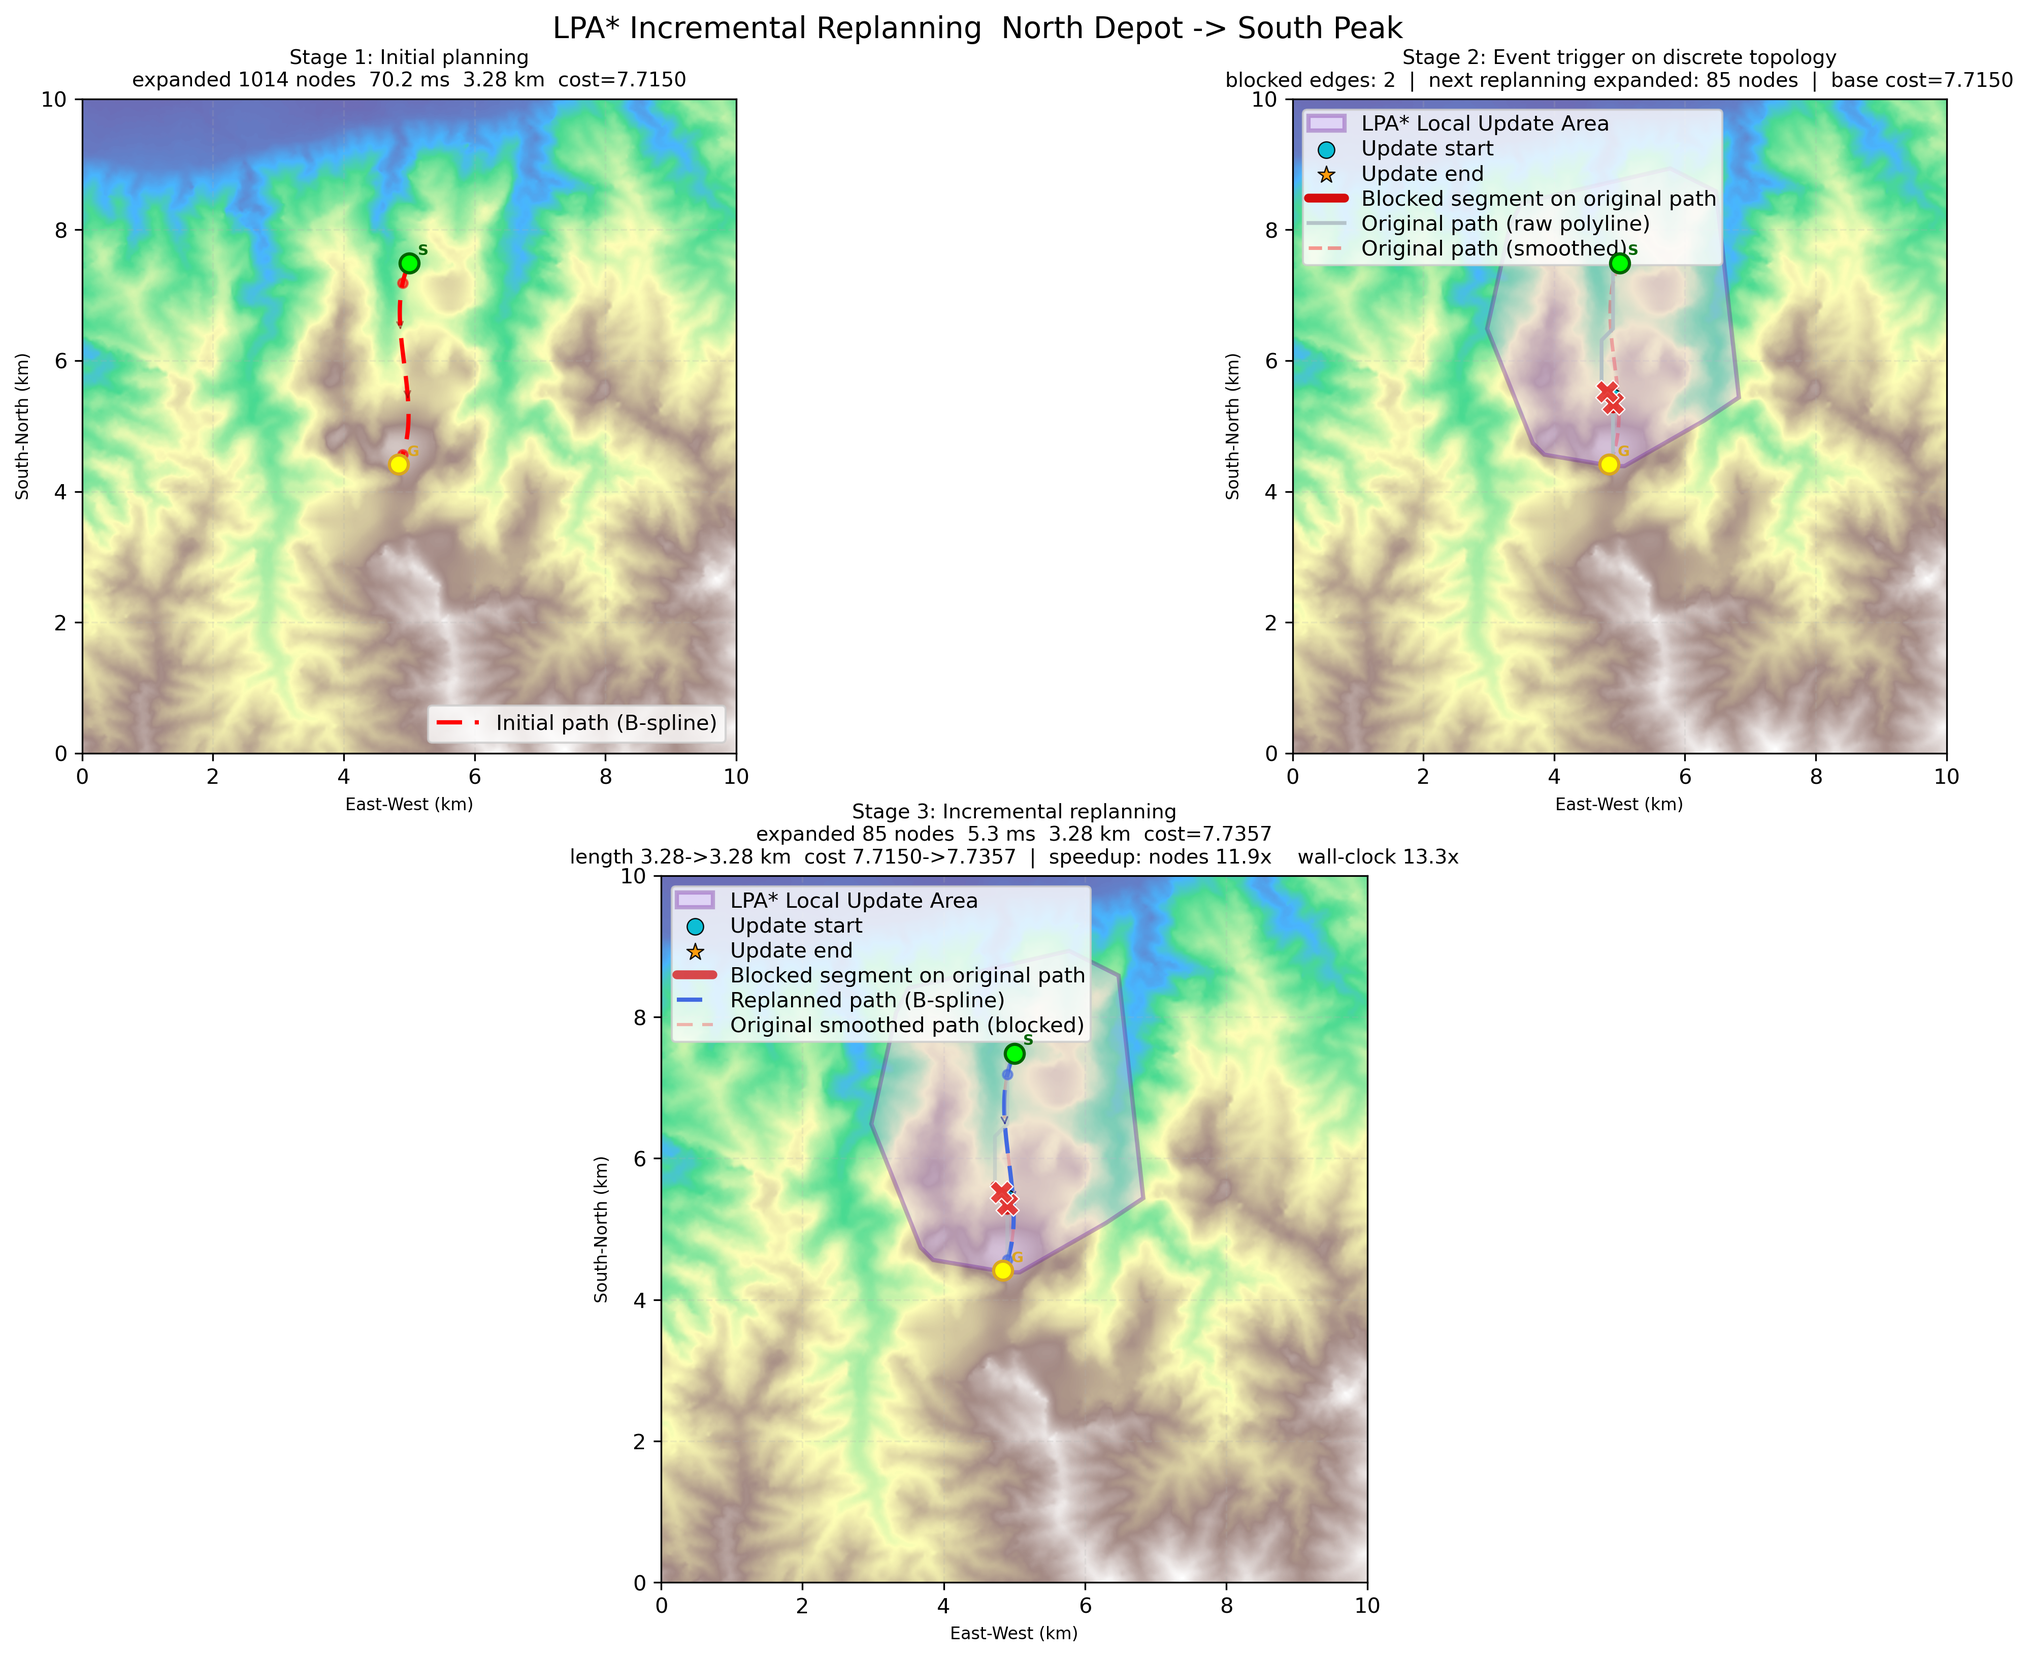
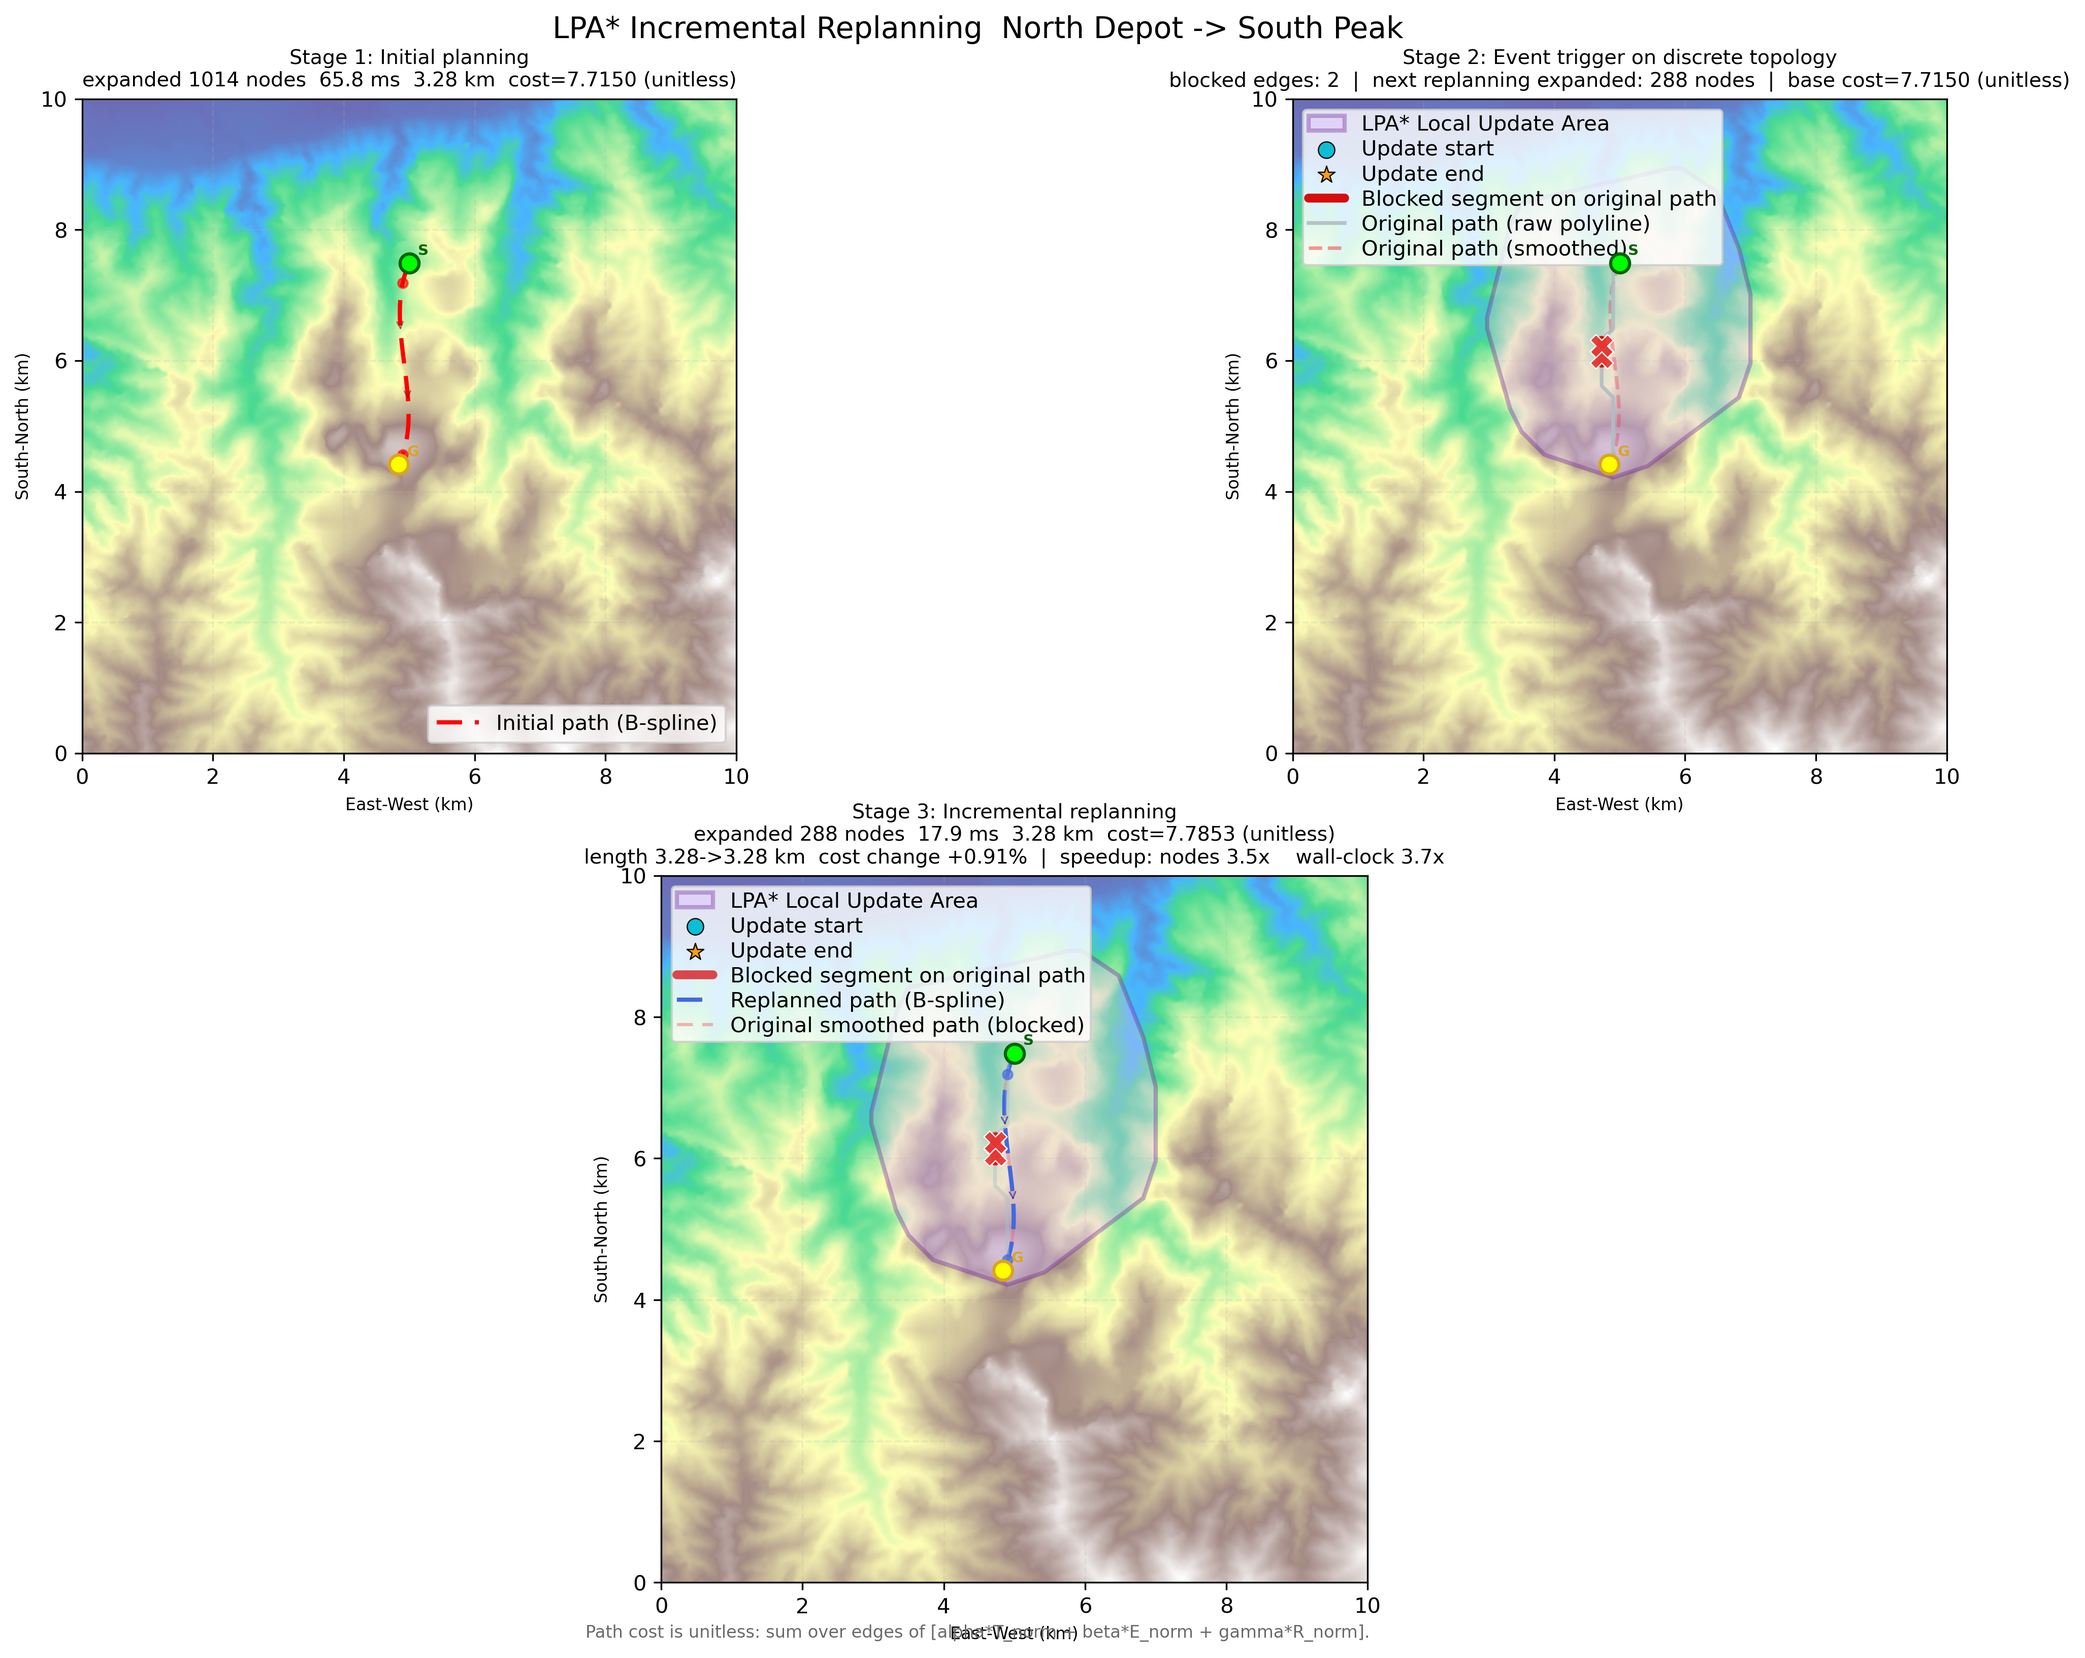
优化结果

diff --git a/benchmark_matrix.py b/benchmark_matrix.py
@@ -828,6 +828,7 @@ def render_markdown_matrix(
     resolved: Dict[str, int | str],
     anomaly_note: str = "",
     k_note: str = "",
+    quality_note: str = "",
 ) -> str:
     def f(v: float, d: int = 2) -> str:
         if not np.isfinite(float(v)):
@@ -850,6 +851,8 @@ def render_markdown_matrix(
         lines.append(f"- Experiment A diagnosis: {anomaly_note}")
     if k_note:
         lines.append(f"- Experiment B diagnosis: {k_note}")
+    if quality_note:
+        lines.append(f"- Path-quality diagnosis: {quality_note}")
     lines.append("")
 
     lines.append("## Experiment A (Event Intensity)")
@@ -1010,6 +1013,118 @@ def diagnose_continuous_replan_k_effect(
             f"B4 is not slower than B2 (B2/B4={ratio_k1:.3f}). The cumulative trend over K should still be reported."
         )
     return diag_rows, note
+
+
+def diagnose_path_quality_consistency(
+    trial_rows: List[dict],
+    scales: Sequence[str],
+    n_blocks: Sequence[int],
+    k_values: Sequence[int],
+    cost_tol: float = 1e-6,
+    len_tol: float = 1e-6,
+) -> Tuple[List[dict], str]:
+    rows: List[dict] = []
+    equal_rates = []
+    for scale in scales:
+        for n_block in n_blocks:
+            for k_events in k_values:
+                by_trial = {}
+                for r in trial_rows:
+                    if r["scale"] != scale:
+                        continue
+                    if int(r["n_block"]) != int(n_block) or int(r["k_events"]) != int(k_events):
+                        continue
+                    if not r["success_all_events"]:
+                        continue
+                    by_trial[(int(r["trial"]), r["baseline"])] = r
+
+                gaps_cost = []
+                gaps_len = []
+                eq_cost = 0
+                eq_len = 0
+                trial_ids = sorted(
+                    {
+                        int(r["trial"])
+                        for r in trial_rows
+                        if r["scale"] == scale
+                        and int(r["n_block"]) == int(n_block)
+                        and int(r["k_events"]) == int(k_events)
+                    }
+                )
+                for tid in trial_ids:
+                    rb4 = by_trial.get((tid, BASELINE_B4))
+                    rb2 = by_trial.get((tid, BASELINE_B2))
+                    if rb4 is None or rb2 is None:
+                        continue
+                    c4 = float(rb4["final_path_cost"])
+                    c2 = float(rb2["final_path_cost"])
+                    l4 = float(rb4["final_path_len_km"])
+                    l2 = float(rb2["final_path_len_km"])
+                    if not (np.isfinite(c4) and np.isfinite(c2) and np.isfinite(l4) and np.isfinite(l2)):
+                        continue
+                    dc = abs(c4 - c2)
+                    dl = abs(l4 - l2)
+                    gaps_cost.append(dc)
+                    gaps_len.append(dl)
+                    if dc <= cost_tol:
+                        eq_cost += 1
+                    if dl <= len_tol:
+                        eq_len += 1
+
+                n = len(gaps_cost)
+                if n == 0:
+                    rows.append(
+                        {
+                            "scale": scale,
+                            "n_block": int(n_block),
+                            "k_events": int(k_events),
+                            "n_paired": 0,
+                            "mean_abs_cost_gap": float("nan"),
+                            "p95_abs_cost_gap": float("nan"),
+                            "equal_cost_rate": float("nan"),
+                            "mean_abs_len_gap_km": float("nan"),
+                            "p95_abs_len_gap_km": float("nan"),
+                            "equal_len_rate": float("nan"),
+                        }
+                    )
+                    continue
+
+                gaps_cost_arr = np.asarray(gaps_cost, dtype=float)
+                gaps_len_arr = np.asarray(gaps_len, dtype=float)
+                eq_cost_rate = float(eq_cost / n)
+                eq_len_rate = float(eq_len / n)
+                equal_rates.append(eq_cost_rate)
+                rows.append(
+                    {
+                        "scale": scale,
+                        "n_block": int(n_block),
+                        "k_events": int(k_events),
+                        "n_paired": int(n),
+                        "mean_abs_cost_gap": float(np.mean(gaps_cost_arr)),
+                        "p95_abs_cost_gap": float(np.percentile(gaps_cost_arr, 95)),
+                        "equal_cost_rate": eq_cost_rate,
+                        "mean_abs_len_gap_km": float(np.mean(gaps_len_arr)),
+                        "p95_abs_len_gap_km": float(np.percentile(gaps_len_arr, 95)),
+                        "equal_len_rate": eq_len_rate,
+                    }
+                )
+
+    if not equal_rates:
+        return rows, "path-quality consistency could not be evaluated (no paired successful trials)."
+
+    avg_eq = float(np.mean(np.asarray(equal_rates, dtype=float)))
+    if avg_eq >= 0.7:
+        note = (
+            f"B4/B2 path costs are frequently equal (mean equal-cost rate={100.0*avg_eq:.1f}%). "
+            "This is expected because both optimize the same weighted objective on the same graph; "
+            "incremental LPA* mainly improves replanning workload/time rather than final optimality."
+        )
+    else:
+        note = (
+            f"B4/B2 equal-cost rate is moderate (mean={100.0*avg_eq:.1f}%), "
+            "indicating event-stream state reuse can also lead to different feasible local choices in some trials."
+        )
+    return rows, note
 
 
 def make_plots_matrix(
@@ -1293,12 +1408,14 @@ def run_benchmark_matrix(args: argparse.Namespace) -> None:
     tables, resolved = build_focus_tables_matrix(summary_rows, pair_rows, scales, n_blocks, k_values, args)
     anomaly_rows, anomaly_note = diagnose_event_intensity_anomaly(tables, resolved)
     k_diag_rows, k_diag_note = diagnose_continuous_replan_k_effect(tables, resolved)
+    quality_rows, quality_note = diagnose_path_quality_consistency(trial_records, scales, n_blocks, k_values)
     markdown = render_markdown_matrix(
         tables,
         args,
         resolved,
         anomaly_note=anomaly_note,
         k_note=k_diag_note,
+        quality_note=quality_note,
     )
     plot_paths = make_plots_matrix(summary_rows, trial_records, scales, n_blocks, k_values, args, out_dir)
 
@@ -1329,6 +1446,29 @@ def run_benchmark_matrix(args: argparse.Namespace) -> None:
             + f"- {k_diag_note}\n",
             encoding="utf-8",
         )
+    if quality_rows:
+        write_csv(out_dir / "experiment_path_quality.csv", quality_rows, list(quality_rows[0].keys()))
+        (out_dir / "experiment_path_quality.md").write_text(
+            "# Path Quality Diagnosis (B4 vs B2)\n\n"
+            + f"- {quality_note}\n",
+            encoding="utf-8",
+        )
+
+    # One-stop discussion notes for paper Discussion section.
+    discussion_lines = [
+        "# Benchmark Discussion Notes",
+        "",
+        f"- Experiment A: {anomaly_note}" if anomaly_note else "- Experiment A: no anomaly note generated.",
+        f"- Experiment B: {k_diag_note}" if k_diag_note else "- Experiment B: no K-effect note generated.",
+        f"- Path quality: {quality_note}" if quality_note else "- Path quality: no note generated.",
+        "",
+        "Suggested paper wording:",
+        "1. Under K=1 and light perturbation, incremental LPA* may be slower due to queue/state-maintenance overhead.",
+        "2. With larger K, state reuse accumulates and cumulative advantage becomes clear.",
+        "3. Non-monotonic time vs n_block can happen when event geometry pushes detours into cleaner subgraphs, reducing updated states.",
+        "4. Equal B4/B2 path costs are expected for many trials because both solve the same weighted objective; speed/workload is the key differentiator.",
+    ]
+    (out_dir / "benchmark_discussion.md").write_text("\n".join(discussion_lines) + "\n", encoding="utf-8")
 
     (out_dir / "benchmark_table.md").write_text(markdown, encoding="utf-8")
     cfg = vars(args).copy()
@@ -1359,6 +1499,10 @@ def run_benchmark_matrix(args: argparse.Namespace) -> None:
     if k_diag_rows:
         print(f"  - {out_dir / 'experiment_B_diagnostics.csv'}")
         print(f"  - {out_dir / 'experiment_B_diagnostics.md'}")
+    if quality_rows:
+        print(f"  - {out_dir / 'experiment_path_quality.csv'}")
+        print(f"  - {out_dir / 'experiment_path_quality.md'}")
+    print(f"  - {out_dir / 'benchmark_discussion.md'}")
     print(f"  - {out_dir / 'benchmark_config.json'}")
     for p in plot_paths:
         print(f"  - {p}")

diff --git a/lpa_star.py b/lpa_star.py
@@ -927,6 +927,7 @@ path3_raw       = planner.extract_path()
 path3, curve3   = smooth_path(path3_raw)
 path3_len       = planner.path_length_km(path3)
 phase3_cost     = float(planner.g[goal_node])
+cost_delta_pct  = ((phase3_cost - phase1_cost) / max(abs(phase1_cost), 1e-9)) * 100.0
 
 print(f"  找到路径: {'OK' if found2 else 'FAIL'}")
 print(f"  遍历节点数:   {phase3_expanded}  （初始规划: {phase1_expanded}）")
@@ -934,6 +935,7 @@ print(f"  重规划耗时:   {phase3_time_ms:.2f} ms  （初始规划: {phase1_t
 print(f"  路径节点数:   {len(path3_raw)} → 平滑后 {len(path3)}")
 print(f"  路径长度:     {path3_len:.2f} km  （初始: {path1_len:.2f} km）")
 print(f"  路径代价:     {phase3_cost:.4f}")
+print(f"  代价变化:     {cost_delta_pct:+.2f}% （无量纲加权总代价）")
 
 timing_repeat = repeated_timing_eval(start_node, goal_node, blocked_edges, repeats=TIMING_REPEATS)
 if timing_repeat is not None:
@@ -1425,7 +1427,7 @@ def apply_compact_legend(ax, ordered_labels, loc='upper left'):
 draw_base(
     ax1,
     f"Stage 1: Initial planning\nexpanded {phase1_expanded} nodes  "
-    f"{phase1_time_ms:.1f} ms  {path1_len:.2f} km  cost={phase1_cost:.4f}",
+    f"{phase1_time_ms:.1f} ms  {path1_len:.2f} km  cost={phase1_cost:.4f} (unitless)",
 )
 if path1:
     px = [nodes[n,0] for n in path1]
@@ -1449,7 +1451,7 @@ draw_base(
     (
         f"Stage 2: Event trigger on discrete topology\n"
         f"blocked edges: {len(blocked_edges)}  |  "
-        f"next replanning expanded: {phase3_expanded} nodes  |  base cost={phase1_cost:.4f}"
+        f"next replanning expanded: {phase3_expanded} nodes  |  base cost={phase1_cost:.4f} (unitless)"
     ),
 )
 if path1:
@@ -1477,8 +1479,8 @@ draw_base(
     ax3,
     (
         f"Stage 3: Incremental replanning\n"
-        f"expanded {phase3_expanded} nodes  {phase3_time_ms:.1f} ms  {path3_len:.2f} km  cost={phase3_cost:.4f}\n"
-        f"length {path1_len:.2f}->{path3_len:.2f} km  cost {phase1_cost:.4f}->{phase3_cost:.4f}  |  "
+        f"expanded {phase3_expanded} nodes  {phase3_time_ms:.1f} ms  {path3_len:.2f} km  cost={phase3_cost:.4f} (unitless)\n"
+        f"length {path1_len:.2f}->{path3_len:.2f} km  cost change {cost_delta_pct:+.2f}%  |  "
         f"speedup: nodes {ratio_nodes:.1f}x    wall-clock {ratio_time:.1f}x"
     ),
 )
@@ -1516,6 +1518,14 @@ apply_compact_legend(
 )
 
 fig.subplots_adjust(left=0.045, right=0.985, bottom=0.045, top=0.93, wspace=0.12, hspace=0.18)
+fig.text(
+    0.5,
+    0.012,
+    "Path cost is unitless: sum over edges of [alpha*T_norm + beta*E_norm + gamma*R_norm].",
+    ha='center',
+    fontsize=8.1,
+    color='dimgray',
+)
 plt.savefig('lpa_result.png', dpi=FIG_DPI, bbox_inches='tight')
 print("[完成] lpa_result.png 已保存")
 plt.close(fig)

diff --git a/benchmark.py b/benchmark.py
@@ -1485,6 +1485,27 @@ def run_benchmark_matrix_via_subprocess(args: argparse.Namespace) -> None:
                     writer.writerow(row)
             print(f"[matrix] merged trials written: {matrix_trials} (includes B1/B2/B3/B4)")
 
+    # Enrich matrix config with explicit four-baseline run metadata.
+    cfg_path = out_dir / "benchmark_config.json"
+    cfg_data: dict = {}
+    if cfg_path.exists():
+        try:
+            cfg_data = json.loads(cfg_path.read_text(encoding="utf-8"))
+        except Exception:
+            cfg_data = {}
+    cfg_data["four_baseline_enabled"] = True
+    cfg_data["four_baseline_skip_b1"] = bool(args.skip_b1)
+    cfg_data["four_baseline_output_dir"] = str(baseline_dir)
+    cfg_data["four_baseline_baselines"] = [
+        "B1_Voxel_Dijkstra",
+        "B2_GlobalAstar_Layered",
+        "B3_LPA_SingleLayer",
+        "B4_Proposed_LPA_Layered",
+    ]
+    cfg_data["benchmark_trials_merged"] = bool(matrix_trials.exists() and baseline_trials.exists())
+    cfg_path.write_text(json.dumps(cfg_data, ensure_ascii=False, indent=2), encoding="utf-8")
+    print(f"[matrix] updated config metadata: {cfg_path}")
+
 
 def parse_args() -> argparse.Namespace:
     parser = argparse.ArgumentParser(description="Monte Carlo benchmark for B1/B2/B3/B4 baselines.")

diff --git a/layered_graph.py b/layered_graph.py
@@ -84,8 +84,10 @@ PEAKS = {
     "中峰": {"lon": 110.0808, "lat": 34.4806, "elev": 2043.0},
 }
 DEPOTS = {
-    "北部基地": {"row_frac": 0.25, "col_frac": 0.50},
-    "西部基地": {"row_frac": 0.50, "col_frac": 0.125},
+    # Assumed logistics depot anchors in WGS84 (replace proxy row/col fractions).
+    # NOTE: these are project assumptions anchored to current study-area georegistration.
+    "北部基地": {"lon": 110.079590, "lat": 34.505499},
+    "西部基地": {"lon": 110.039004, "lat": 34.482642},
 }
 
 # ===== 读取数据 =====
@@ -181,8 +183,7 @@ for name, p in PEAKS.items():
     r, c = nearest_rc_by_lonlat(float(p["lon"]), float(p["lat"]))
     terminal_specs[name] = {"row": r, "col": c}
 for name, p in DEPOTS.items():
-    r = int(np.clip(round(rows * float(p["row_frac"])), 0, rows - 1))
-    c = int(np.clip(round(cols * float(p["col_frac"])), 0, cols - 1))
+    r, c = nearest_rc_by_lonlat(float(p["lon"]), float(p["lat"]))
     terminal_specs[name] = {"row": r, "col": c}
 
 all_terminals   = terminal_specs
